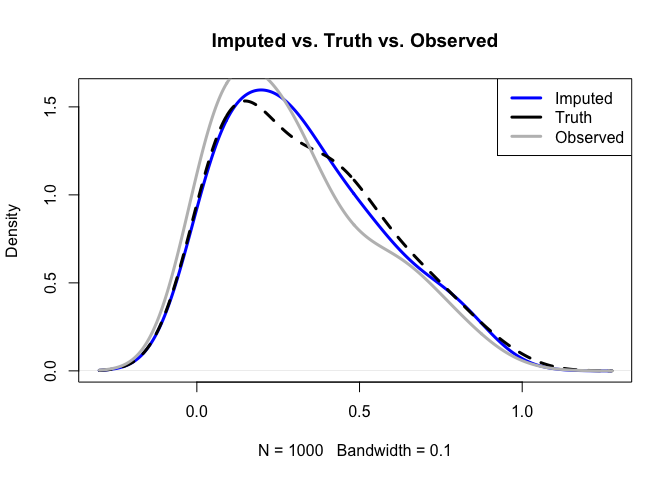
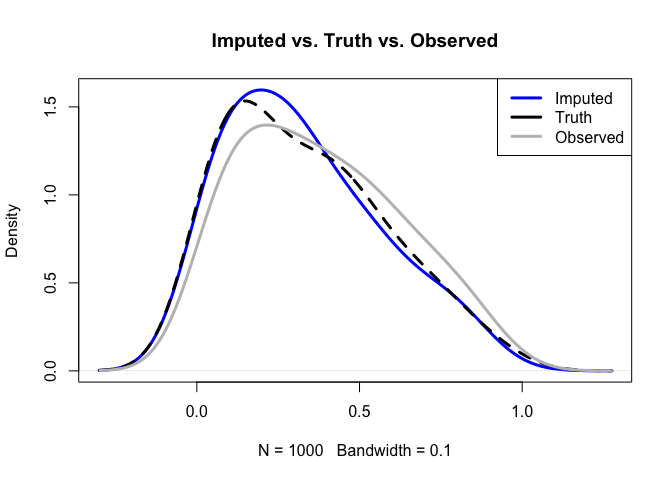
jj

diff --git a/README.md b/README.md
@@ -60,7 +60,7 @@ $\boldsymbol Y_{ij}$ for $R^{2}_{ij}>0$.
   print("Missingness in Each Y_j:")
 #> [1] "Missingness in Each Y_j:"
   print(colMeans(R))
-#> [1] 0.506 0.474 0.477 0.499 0.529
+#> [1] 0.495 0.503 0.500 0.519 0.499
 
   # Now we'll create the study variables. Here we use gamma, t, and beta marginals 
   
@@ -97,29 +97,29 @@ $\boldsymbol Y_{ij}$ for $R^{2}_{ij}>0$.
       print("Summary of (Y^obs, R)")
 #> [1] "Summary of (Y^obs, R)"
       print(summary(Y_obs))
-#>       Y_j              Y_j               Y_j              Y_j         
-#>  Min.   :0.0003   Min.   :-1.1661   Min.   :0.0005   Min.   : 0.0031  
-#>  1st Qu.:0.2252   1st Qu.: 0.9987   1st Qu.:0.1051   1st Qu.: 0.2804  
-#>  Median :0.5206   Median : 1.6584   Median :0.2545   Median : 0.6247  
-#>  Mean   :0.7564   Mean   : 1.8032   Mean   :0.2977   Mean   : 0.9551  
-#>  3rd Qu.:1.0294   3rd Qu.: 2.4363   3rd Qu.:0.4384   3rd Qu.: 1.3025  
-#>  Max.   :8.2859   Max.   : 7.6862   Max.   :0.9755   Max.   :11.9877  
-#>  NA's   :506      NA's   :474       NA's   :477      NA's   :499      
-#>       Y_j                V6              V7              V8       
-#>  Min.   : 0.0657   Min.   :0.000   Min.   :0.000   Min.   :0.000  
-#>  1st Qu.: 1.8390   1st Qu.:0.000   1st Qu.:0.000   1st Qu.:0.000  
-#>  Median : 2.6267   Median :1.000   Median :0.000   Median :0.000  
-#>  Mean   : 3.0262   Mean   :0.506   Mean   :0.474   Mean   :0.477  
-#>  3rd Qu.: 3.6864   3rd Qu.:1.000   3rd Qu.:1.000   3rd Qu.:1.000  
-#>  Max.   :16.5670   Max.   :1.000   Max.   :1.000   Max.   :1.000  
-#>  NA's   :529                                                      
-#>        V9             V10       
-#>  Min.   :0.000   Min.   :0.000  
-#>  1st Qu.:0.000   1st Qu.:0.000  
-#>  Median :0.000   Median :1.000  
-#>  Mean   :0.499   Mean   :0.529  
-#>  3rd Qu.:1.000   3rd Qu.:1.000  
-#>  Max.   :1.000   Max.   :1.000  
+#>       Y_j              Y_j               Y_j              Y_j        
+#>  Min.   :0.0001   Min.   :-0.7572   Min.   :0.0023   Min.   :0.0004  
+#>  1st Qu.:0.1346   1st Qu.: 1.6601   1st Qu.:0.1703   1st Qu.:0.3190  
+#>  Median :0.3734   Median : 2.5783   Median :0.3552   Median :0.7210  
+#>  Mean   :0.5846   Mean   : 2.8197   Mean   :0.3809   Mean   :1.0670  
+#>  3rd Qu.:0.8212   3rd Qu.: 3.6118   3rd Qu.:0.5630   3rd Qu.:1.4684  
+#>  Max.   :3.9693   Max.   :12.0830   Max.   :0.9743   Max.   :7.8155  
+#>  NA's   :495      NA's   :503       NA's   :500      NA's   :519     
+#>       Y_j               V6              V7              V8            V9       
+#>  Min.   :-2.074   Min.   :0.000   Min.   :0.000   Min.   :0.0   Min.   :0.000  
+#>  1st Qu.: 1.208   1st Qu.:0.000   1st Qu.:0.000   1st Qu.:0.0   1st Qu.:0.000  
+#>  Median : 2.151   Median :0.000   Median :1.000   Median :0.5   Median :1.000  
+#>  Mean   : 2.325   Mean   :0.495   Mean   :0.503   Mean   :0.5   Mean   :0.519  
+#>  3rd Qu.: 3.149   3rd Qu.:1.000   3rd Qu.:1.000   3rd Qu.:1.0   3rd Qu.:1.000  
+#>  Max.   : 8.989   Max.   :1.000   Max.   :1.000   Max.   :1.0   Max.   :1.000  
+#>  NA's   :499                                                                   
+#>       V10       
+#>  Min.   :0.000  
+#>  1st Qu.:0.000  
+#>  Median :0.000  
+#>  Mean   :0.499  
+#>  3rd Qu.:1.000  
+#>  Max.   :1.000  
 #> 
 ```
 
@@ -136,7 +136,7 @@ information specified by the user:
   this example we have $\texttt{ncolR} = 5$
 - **aux_quantiles**: auxiliary quantiles assumed known for each study
   variable. This is a list of length $\texttt{ncolY}$, where the
-  aux_quantiles\[\[j\]\] $=[0,(\tau_{j}),...,1]$, i.e. there are
+  aux_quantiles\[\[j\]\] $=[0,(\tau_{j}^{q}),...,1]$, i.e. there are
   $\ell_{j}+2$ auxiliary quantiles assumed known for each variable. Note
   that $\ell_{j}$, the number of auxiliary quantiles for each variable,
   may be unique, while $\tau^{1}_{j} = 0$ and $\tau^{\ell_{j}} = 1$.
